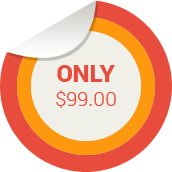
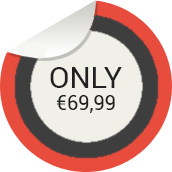
kak
hoofd

Changed region(s): [[0.0872, 0.0872, 0.9302, 0.9302], [0.2907, 0.3779, 0.7267, 0.6686]]

diff --git a/index.html b/index.html
@@ -154,11 +154,10 @@
 									<button onclick="location.href='contact-us.html';" type="button" class="btn btn-default get">Conact</button>
 								</div>
 								<div class="col-sm-6">
-									<img src="images/home/girl1.jpg" class="img-responsive" alt="" />
-									<img src="images/home/pricing.png"  class="pricing" alt="" />
+									<img src="images/home/actie1.png" class="img-responsive" alt="" />
 								</div>
 							</div>
-							<div class="item">
+							<div class="item black">
 								<div class="col-sm-6">
 									<h1>PC<span>4</span>U</h1>
 									<h2>100% Responsive Design</h2>
@@ -166,8 +165,7 @@
 									<button type="button" class="btn btn-default get">Get it now</button>
 								</div>
 								<div class="col-sm-6">
-									<img src="images/home/girl2.jpg" class="img-responsive" alt="" />
-									<img src="images/home/pricing.png"  class="pricing" alt="" />
+									<img src="images/home/actie2.png" class="img-responsive" alt="" />
 								</div>
 							</div>
 							
@@ -179,8 +177,7 @@
 									<button type="button" class="btn btn-default get">Get it now</button>
 								</div>
 								<div class="col-sm-6">
-									<img src="images/home/girl3.jpg" class="girl img-responsive" alt="" />
-									<img src="images/home/pricing.png" class="pricing" alt="" />
+									<img src="images/home/actie3.png" class="girl img-responsive" alt="" />
 								</div>
 							</div>
 							

diff --git a/css/main.css b/css/main.css
@@ -2515,5 +2515,3 @@ h2.title {
 .contact-info .social-networks ul li a:hover{
   color: #FE980F;
 }
-
-
